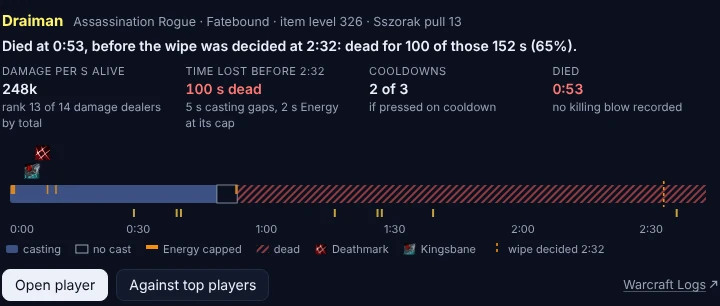
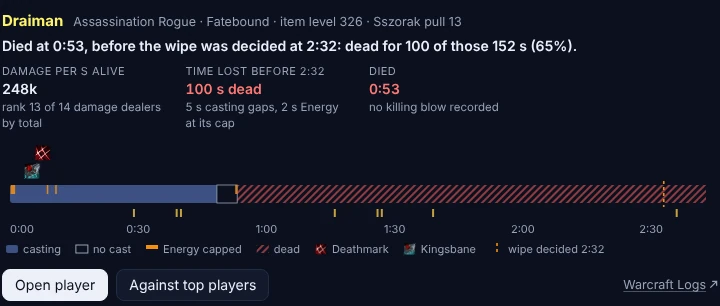
fix(agent): a player's pull card has no "Cooldowns 2 of 3": the answer states each cooldown and no total
The tile added up the uses and the possible uses of a player's cooldowns in the page, a number player_pull
states nowhere (it lists Vanish 0/1, Deathmark 1/1, Kingsbane 1/1). A wipe's card has three numbers now; a
kill's keeps its parse. The two changelog pictures of the card are shot again, and the comparison's alt text
no longer names a mark ("outside their range") the card stopped drawing.

Changed region(s): [[0.4889, 0.2059, 0.7028, 0.3824], [0.7639, 0.2059, 0.9472, 0.3824]]

diff --git a/src/wipebot/core/app/player.js b/src/wipebot/core/app/player.js
@@ -24,14 +24,10 @@ views.player = (() => {
     items.push([D.decided ? `Time lost before ${kit.clock(D.decided.ms)}` : "Time lost",
                 costs.length ? `${costs[0][0]} s ${costs[0][1]}` : "none", costs[0] && costs[0][1] === "dead" ? "dead" : "",
                 costs.slice(1).map(([s, w]) => `${s} s ${w}`).join(", ")]);
-    const judged = D.cooldowns.filter((c) => c.possible);
     // a kill's parse is a percentile that means what it says; where a wipe stands among kills proves little by
-    // itself (views.SHORT_PULL) and is drawn in fullscreen only, with why
+    // itself (views.SHORT_PULL) and is drawn in fullscreen only, with why. No number over the cooldowns: player_pull
+    // states each one's uses of possible uses and no total, so a sum of them here was the page's own
     if (s && s.kind === "parse") items.push(["Parse", `${kit.ordinal(s.percentile)} percentile`, "", `against ${who()} kills`]);
-    else if (judged.length) {
-      const used = judged.reduce((n, c) => n + Math.min(c.uses.length, c.possible), 0), possible = judged.reduce((n, c) => n + c.possible, 0);
-      items.push(["Cooldowns", `${used} of ${possible}`, "", "if pressed on cooldown"]);  // a count, no verdict: one held is right
-    }
     const d = D.died[0];
     // red only for a death the "Died" line counts as theirs: not fallout, not one of a hit killing many
     items.push(["Died", d ? kit.clock(d.ms) : "no", d && !d.fallout && !d.mass ? "dead" : "",

diff --git a/tests/core/test_views.py b/tests/core/test_views.py
@@ -2217,7 +2217,7 @@ async def test_the_player_view_draws_and_asks_for_the_top_on_a_click(made_up, tm
     for s in taken:
         assert not s.errors, (s.path.name, s.errors)
         assert s.height > 100 and "Mirelle" in s.text and "290k" in s.text and "rank 2 of 4 healers" in s.text
-        assert "4 s casting gaps" in s.text and "1 of 2" in s.text and "after the wipe was decided" in s.text
+        assert "4 s casting gaps" in s.text and "after the wipe was decided" in s.text
     first, clicked = taken[0], taken[1]
     assert "Against top players" in first.text and "Astral Shift" not in first.text
     calls = [m["msg"]["params"]["arguments"] for m in clicked.messages if m["msg"].get("method") == "tools/call"
@@ -3156,6 +3156,7 @@ def test_a_players_nights_headline_is_their_deaths_and_what_would_have_kept_them
         "alive.")
 
 
+STAT_TILES = '() => [...document.querySelectorAll(".stats .stat")].map((e) => e.innerText)'
 CARD = """() => {
   const all = (sel) => [...document.querySelectorAll(sel)];
   return { lead: all(".lead").map((p) => p.textContent), stats: all(".stats .stat").length,
@@ -3396,10 +3397,14 @@ async def test_the_player_cards_are_the_same_card_and_a_wipes_standing_is_fullsc
     from wipebot.core import viewhost
     async with drawn("player_pull", {"player": "Mirelle"}) as (view, errors):
         card, text = await view.evaluate(CARD), await view.locator("body").inner_text()
+        tiles = [t.splitlines()[0] for t in await view.evaluate(STAT_TILES)]
     assert not errors and card["lead"] == ["290.00k healing per second over the 143 s alive, rank 2 of 4 healers "
                                            "by total."]
-    assert card["stats"] == 4 and card["charts"] == 1 and card["buttons"] == ["Open player", "Against top players"]
+    assert card["stats"] == 3 and card["charts"] == 1 and card["buttons"] == ["Open player", "Against top players"]
     assert "ranked" not in text and "100th best" not in text and views.SHORT_PULL not in text
+    # No number over the cooldowns: player_pull states each one's uses of possible uses (Ascendance 1/1, Spirit Link
+    # Totem 0/1) and no total, and the card once said "Cooldowns 1 of 2", a sum the page made of them
+    assert tiles == ["HEALING PER S ALIVE", "TIME LOST BEFORE 2:20", "DIED"] and "1 of 2" not in text
     async with drawn("player_pull", {"player": "Mirelle"}, mode="fullscreen", width=viewhost.FULL_WIDTH) as (view, _):
         text = await view.locator("body").inner_text()
     assert "ranked Restoration Shaman kills" in text and "100th best" in text

diff --git a/CHANGELOG.md b/CHANGELOG.md
@@ -141,12 +141,12 @@ The format is based on [Keep a Changelog](https://keepachangelog.com/en/1.1.0/).
 - `Agent` **A pull didn't "get past" an enrage it ran into.** A wipe's summary said the pull got past what ended most earlier pulls, the boss gaining its enrage, on pulls where the boss gained it too: after the wipe was already decided, or seconds after a phase began, where it isn't read as what ended the pull. The summary now says it came on this pull too, and when, where no line above gives the time. The same goes for a hit killing many that came behind another.
 - `Agent` **Who kept a debuff to the end is named.** Asked where a debuff ran out on players, the answer gave one that a single cast puts on the raid and players clear one by one as a single row at the middle player's time, "2:42: on 18", for ends from 2:36 to 3:01. The row now gives the span and each time's players ("2:36-3:01: ran out on 18: 2:36 ... · 3:01 ..."), so the six who still had it at 3:01 stand apart. A pull's timeline also names everyone a debuff reached its highest stack on in the same moment, where it named only the first in the log.
 - `Agent` **A spell isn't "never cast" when there was no time to cast it.** Against top players of their spec, someone who died early was told they never cast spells the top players press less than once in that time: a rogue alive for 53 s "never cast" Sprint, which top rogues press 0.7 times a minute. Such a spell now reads "not due: under one cast in their time alive at the top's median", and only one the top players would have pressed in that time is still "never cast". A damage cooldown is one of those however short the life: the top players press it from the pull.
-- `Agent` **A player's card no longer judges what the answer doesn't.** A rogue dead for 100 of a pull's 152 s was shown a green "Above the 90th percentile of ranked kills", a healer on the same wipe "Below the 25th", and any cooldown used less often than it could be as a fault, though the answer says under those numbers that a short pull runs high, that healing on a wipe is capped by the damage taken, and that a cooldown held for a burst window costs a use. The card no longer lists what went well and what to fix at all: it picked them by thresholds the answer never had. It leads with the player's death as the answer counts it ("Died at 0:53, before the wipe was decided at 2:32: dead for 100 of those 152 s (65%)."), or with their output and rank, and the time lost is the answer's own line. A death is said to be before the wipe was decided only where the answer says so, no longer on a kill. Of a cooldown it says only the moment it came back and wasn't used, in the opened card's list as in the answer, and the count of uses is a plain number. Where a wipe stands among kills is drawn only when the card is opened, with the answer's own sentence on why it proves little by itself, and no longer in Discord's picture; a kill's parse is one of the card's numbers.
+- `Agent` **A player's card no longer judges what the answer doesn't.** A rogue dead for 100 of a pull's 152 s was shown a green "Above the 90th percentile of ranked kills", a healer on the same wipe "Below the 25th", and any cooldown used less often than it could be as a fault, though the answer says under those numbers that a short pull runs high, that healing on a wipe is capped by the damage taken, and that a cooldown held for a burst window costs a use. The card no longer lists what went well and what to fix at all: it picked them by thresholds the answer never had. It leads with the player's death as the answer counts it ("Died at 0:53, before the wipe was decided at 2:32: dead for 100 of those 152 s (65%)."), or with their output and rank, and the time lost is the answer's own line. A death is said to be before the wipe was decided only where the answer says so, no longer on a kill. Of a cooldown it says only the moment it came back and wasn't used, in the opened card's list as in the answer, where each cooldown keeps its own uses: the card adds them up to no number of its own. Where a wipe stands among kills is drawn only when the card is opened, with the answer's own sentence on why it proves little by itself, and no longer in Discord's picture; a kill's parse is one of the card's numbers.
 
-  ![Draiman's pull on Sszorak pull 13: the card leads with "Died at 0:53, before the wipe was decided at 2:32: dead for 100 of those 152 s (65%).", then four numbers with "Cooldowns 2 of 3" in plain ink, and his casting over the pull with no percentile scale](https://raw.githubusercontent.com/Enf0/wipebot/main/docs/images/player-card-no-verdict.webp)
+  ![Draiman's pull on Sszorak pull 13: the card leads with "Died at 0:53, before the wipe was decided at 2:32: dead for 100 of those 152 s (65%).", then three numbers (damage per second alive, the time lost before 2:32, and the death at 0:53) with no count over the cooldowns, and their casting over the pull with no percentile scale](https://raw.githubusercontent.com/Enf0/wipebot/main/docs/images/player-card-no-verdict.webp)
 - `Agent` **The comparison with top players says what its marks are.** A key over the rows names the player's dot, the top players' median and their range, and which dots the comparison flags or says are no fault at all. The card shows the flagged spells first and the rest in the comparison's order, and marks nothing the comparison doesn't: a cooldown cast once in a short life is no longer drawn as outside the top players' range. A spell the log writes under two ids, such as a rogue's Mutilate, has the same rate there as in the card's own list of casts, where it stood at twice that.
 
-  ![Draiman's casts against top Assassination Rogues: a key over the rows for his dot, the top players' median, their range, a dot outside their range, one never cast, and one that is no fault, and Mutilate at 27.1 against 23.9](https://raw.githubusercontent.com/Enf0/wipebot/main/docs/images/player-casts-key.webp)
+  ![Draiman's casts against top Assassination Rogues, in the opened card: a key over the rows for their dot, the top players' median, their range, a spell never cast or far off, and one that is no fault, with Mutilate at 27.1 against 23.9 and Ambush, never cast, in red](https://raw.githubusercontent.com/Enf0/wipebot/main/docs/images/player-casts-key.webp)
 - `Agent` **Saved raid notes that can't be read are no longer reported as none saved.** When the file with a guild's saved notes and plans was locked or damaged, a question about them was answered as if nothing had been saved. Wipebot now says that they can't be read right now.
 - `MCP` **The hourly limit per user says what it is and when it ends.** Past it, the refusal named what you had asked for as if that were the limit, and a wait until your oldest question was an hour old, after which the next one was refused again. It now gives what was asked for and the limit apart, and the wait until enough of it is over an hour old. Questions sent together are counted as they start, so a batch no longer goes past the limit; what reads no log, such as a spell's tooltip or a spec's guide, still answers once the Warcraft Logs points are used up; and a read over many nights is weighed against the server's own share of the points, so it isn't started and then cut off halfway.
 - `Agent` **An option Wipebot's tools don't have is refused, no longer dropped.** When the model asked a tool for something it doesn't take, a player on a tool about the whole pull for one, the option was dropped without a word and the answer was about something else than was asked. The call is now refused with the options the tool has and the tools that take the one given, and a value of the wrong kind is explained in a sentence instead of a library's error text. A number given where a tool takes text, such as a spell's id for the spell to look up, is taken as that text instead of refused.
